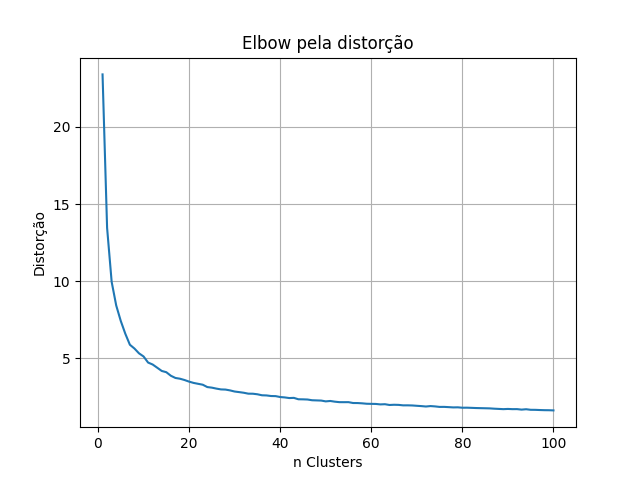
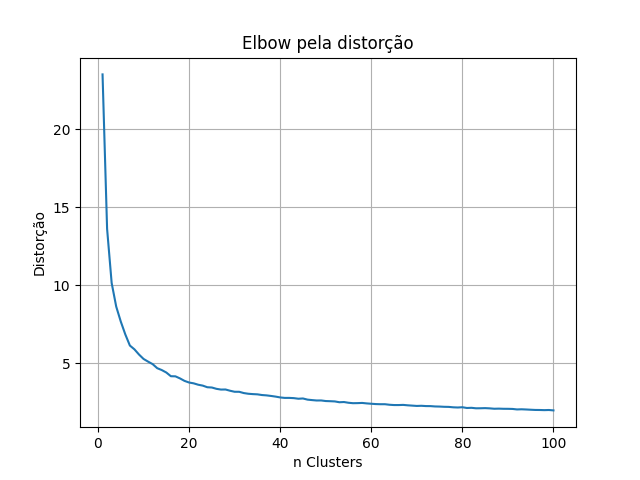
a

diff --git a/clusterizacao/normalizar_Dados.py b/clusterizacao/normalizar_Dados.py
@@ -1,0 +1,72 @@
+import pandas as pd
+dados =pd.read_csv('C:\\Users\\yann_\\OneDrive\\Documentos\\GitHub\\Faculdade-Sistemas-Inteligentes-Avancados\\clusterizacao\\ObesityDataSet_raw_and_data_sinthetic.csv', sep=',')
+print(dados.head(5))
+
+dados_numericos = dados.drop(columns=['Gender','family_history_with_overweight', 'FAVC', 'CAEC','SMOKE','SCC','CALC','MTRANS','NObeyesdad' ])
+dados_categoricos = dados[['Gender','family_history_with_overweight', 'FAVC', 'CAEC','SMOKE','SCC','CALC','MTRANS','NObeyesdad' ]]
+
+dados_categoricos_normalizados = pd.get_dummies(data=dados_categoricos, dtype=int)
+print(dados_categoricos_normalizados)
+
+from sklearn import preprocessing
+normalizador = preprocessing.MinMaxScaler()
+modelo_normalizador = normalizador.fit(dados_numericos)
+
+dados_numericos_normalizados = modelo_normalizador.fit_transform(dados_numericos)
+
+dados_numericos_normalizados = pd.DataFrame(data = dados_numericos_normalizados, columns=['Age','Height','Weight','FCVC','NCP','CH2O','FAF','TUE'])
+
+dados_normalizados_final = dados_numericos_normalizados.join(dados_categoricos_normalizados, how='left')
+
+dados_normalizados_final_legiveis = modelo_normalizador.inverse_transform(dados_numericos_normalizados)
+
+dados_normalizados_final_legiveis = pd.DataFrame(data= dados_normalizados_final_legiveis, columns=['Age','Height','Weight','FCVC','NCP','CH2O','FAF','TUE']).join(dados_categoricos_normalizados)
+pd.set_option('display.max_columns', None)
+print(dados_normalizados_final_legiveis)
+
+
+from sklearn.cluster import KMeans
+import matplotlib.pyplot as plt
+import math
+from scipy.spatial.distance import cdist
+import numpy as np
+
+distortions = []
+K = range(1, 101)
+
+for i in K:
+    obesity_kmeans_model = KMeans(n_clusters = i).fit(dados_normalizados_final_legiveis)
+    distortions.append(sum(np.min(cdist(dados_normalizados_final_legiveis, obesity_kmeans_model.cluster_centers_, 'euclidean'), axis = 1)/dados_normalizados_final_legiveis.shape[0]))
+
+print(distortions)
+
+fig, ax = plt.subplots()
+ax.plot(K, distortions)
+ax.set(xlabel = 'n Clusters', ylabel = 'Distorção', title = 'Elbow pela distorção')
+ax.grid()
+fig.savefig('clusterizacao\elbow_distorcao.png')
+plt.show()
+
+# Calcular o número ótimo de clusters
+x0 = K[0]
+y0 = distortions[0]
+xn = K[len(K) - 1]
+yn = distortions[len(distortions)-1]
+# Iterar nos pontos gerados durante os treinamentos preliminares
+distancias = []
+for i in range(len(distortions)):
+    x = K[i]
+    y = distortions[i]
+    numerador = abs((yn-y0)*x - (xn-x0)*y + xn*y0 - yn*x0)
+    denominador = math.sqrt((yn-y0)**2 + (xn-x0)**2)
+    distancias.append(numerador/denominador)
+
+# Maior distância
+n_clusters_otimo = K[distancias.index(np.max(distancias))]
+
+obesity_kmeans_model = KMeans(n_clusters = n_clusters_otimo, random_state=42).fit(dados_normalizados_final)
+
+from pickle import dump
+dump(obesity_kmeans_model, open("C:\\Users\\yann_\\OneDrive\\Documentos\\GitHub\\Faculdade-Sistemas-Inteligentes-Avancados\\clusterizacao\\obesity_cluster.pkl", "wb"))
+
+# print(obesity_kmeans_model.cluster_centers_)

diff --git a/clusterizacao/app.py b/clusterizacao/app.py
@@ -5,6 +5,6 @@ obesity_clusters_kmeans = load(open("clusterizacao\obesity_cluster.pkl", "rb"))
 print(obesity_clusters_kmeans.cluster_centers_)
 
 # Obter uma nova instancia de dados
-nova_instancia = [20, 1.67, 68, 2, 3, 2, 0, 1]
+nova_instancia = [20, 1.59, 60, 2.0, 3.0, 2.0, 2.0, 0.6, 0,0,0,1,1,0,0,1,0,0,1,0,1,0,0,0,0,1,0,1,0,0,0,0,1,0,0,0,0,0]
 print(f"índice do grupo da nova instancia{obesity_clusters_kmeans.predict([nova_instancia])}")
 print(f"Centroide da nova instancia: {obesity_clusters_kmeans.cluster_centers_[obesity_clusters_kmeans.predict([nova_instancia])]}")

diff --git a/Aula08-03/tempCodeRunnerFile.py b/Aula08-03/tempCodeRunnerFile.py
@@ -1,0 +1,5 @@
+dados_legiveis_final = dados_numericos_legiveis.join(dados_categoricos_normalizados, how='left')
+categorias_originais = dados_categoricos_normalizados.idxmax(axis=1).str.replace('sexo_', '')
+dados_legiveis_final['sexo'] = categorias_originais
+dados_legiveis_final = dados_legiveis_final.drop(columns=['sexo_F','sexo_M'])
+print(dados_legiveis_final.head(10))
